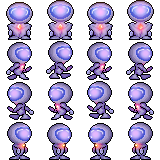
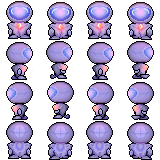
update

diff --git a/index.html b/index.html
@@ -128,19 +128,11 @@
         bottom: calc(var(--grid-cell)*1.1);
         left: calc(var(--grid-cell)*1);
     }
-    .icon[walking="false"][facing="right"] .icon_sprite {
-        animation: rightidle 1s steps(2) infinite;
-        background-position-y: calc(var(--grid-cell)*-3);
-    }
-    .icon[walking="false"][facing="left"] .icon_sprite {
-        animation: leftidle 1s steps(2) infinite;
-        background-position-y: calc(var(--grid-cell)*-3);
-    }
     .icon[walking="false"] .icon_sprite {
-        animation: idle 2s steps(4) infinite;
+        animation: none;
     }
     .icon[walking="true"] .icon_sprite {
-        animation: idle 1s steps(4) infinite;
+        animation: idle .9s steps(4) infinite;
     }
     @keyframes idle {
         from {
@@ -150,27 +142,17 @@
             transform: translate3d(-101%, 0, 0);
         }
     }
-    @keyframes rightidle {
-        from {
-            transform: translate3d(0%, 0, 0);
-        }
-        to {
-            transform: translate3d(-50%, 0, 0);
-        }
-    }
-    @keyframes leftidle {
-        from {
-            transform: translate3d(-50%, 0, 0);
-        }
-        to {
-            transform: translate3d(-100%, 0, 0);
-        }
-    }
     .icon[facing="right"] .icon_sprite {
         background-position-y: calc(var(--grid-cell)*-1);
     }
     .icon[facing="left"] .icon_sprite {
         background-position-y: calc(var(--grid-cell)*-2);
+    }
+    .icon[facing="up"] .icon_sprite {
+        background-position-y: calc(var(--grid-cell)*-3);
+    }
+    .icon[facing="down"] .icon_sprite {
+        background-position-y: calc(var(--grid-cell)*0);
     }
     button {
         border: solid #fff;
@@ -558,8 +540,8 @@
 <style>
 .dpad {
    position: fixed;
-   right: calc(var(--pixel-size) * 20);
-   bottom: calc(var(--pixel-size) * 20);
+   right: calc(var(--pixel-size) * 15);
+   bottom: calc(var(--pixel-size) * 15);
    width: calc(var(--pixel-size) * 37);
    height: calc(var(--pixel-size) * 38);
    background: radial-gradient(rgb(0,0,0,0), #000);
